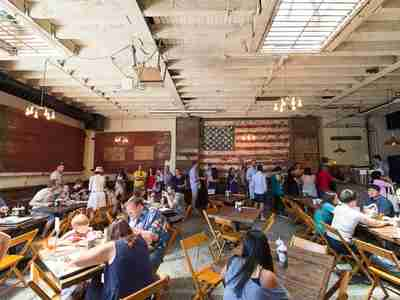
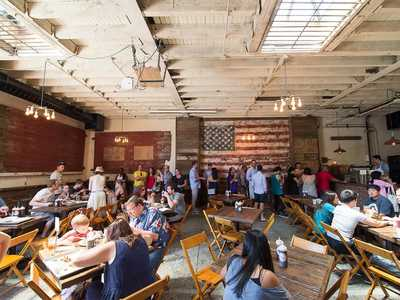
Improved image quality

diff --git a/Gruntfile.js b/Gruntfile.js
@@ -7,11 +7,11 @@ module.exports = function(grunt) {
             sizes: [{
               name: '1x',
               width: '400',
-              quality: 20
+              quality: 50
             },{
               name: '2x',
               width: '800',
-              quality: 40
+              quality: 80
             }]
           },
           files: [{
